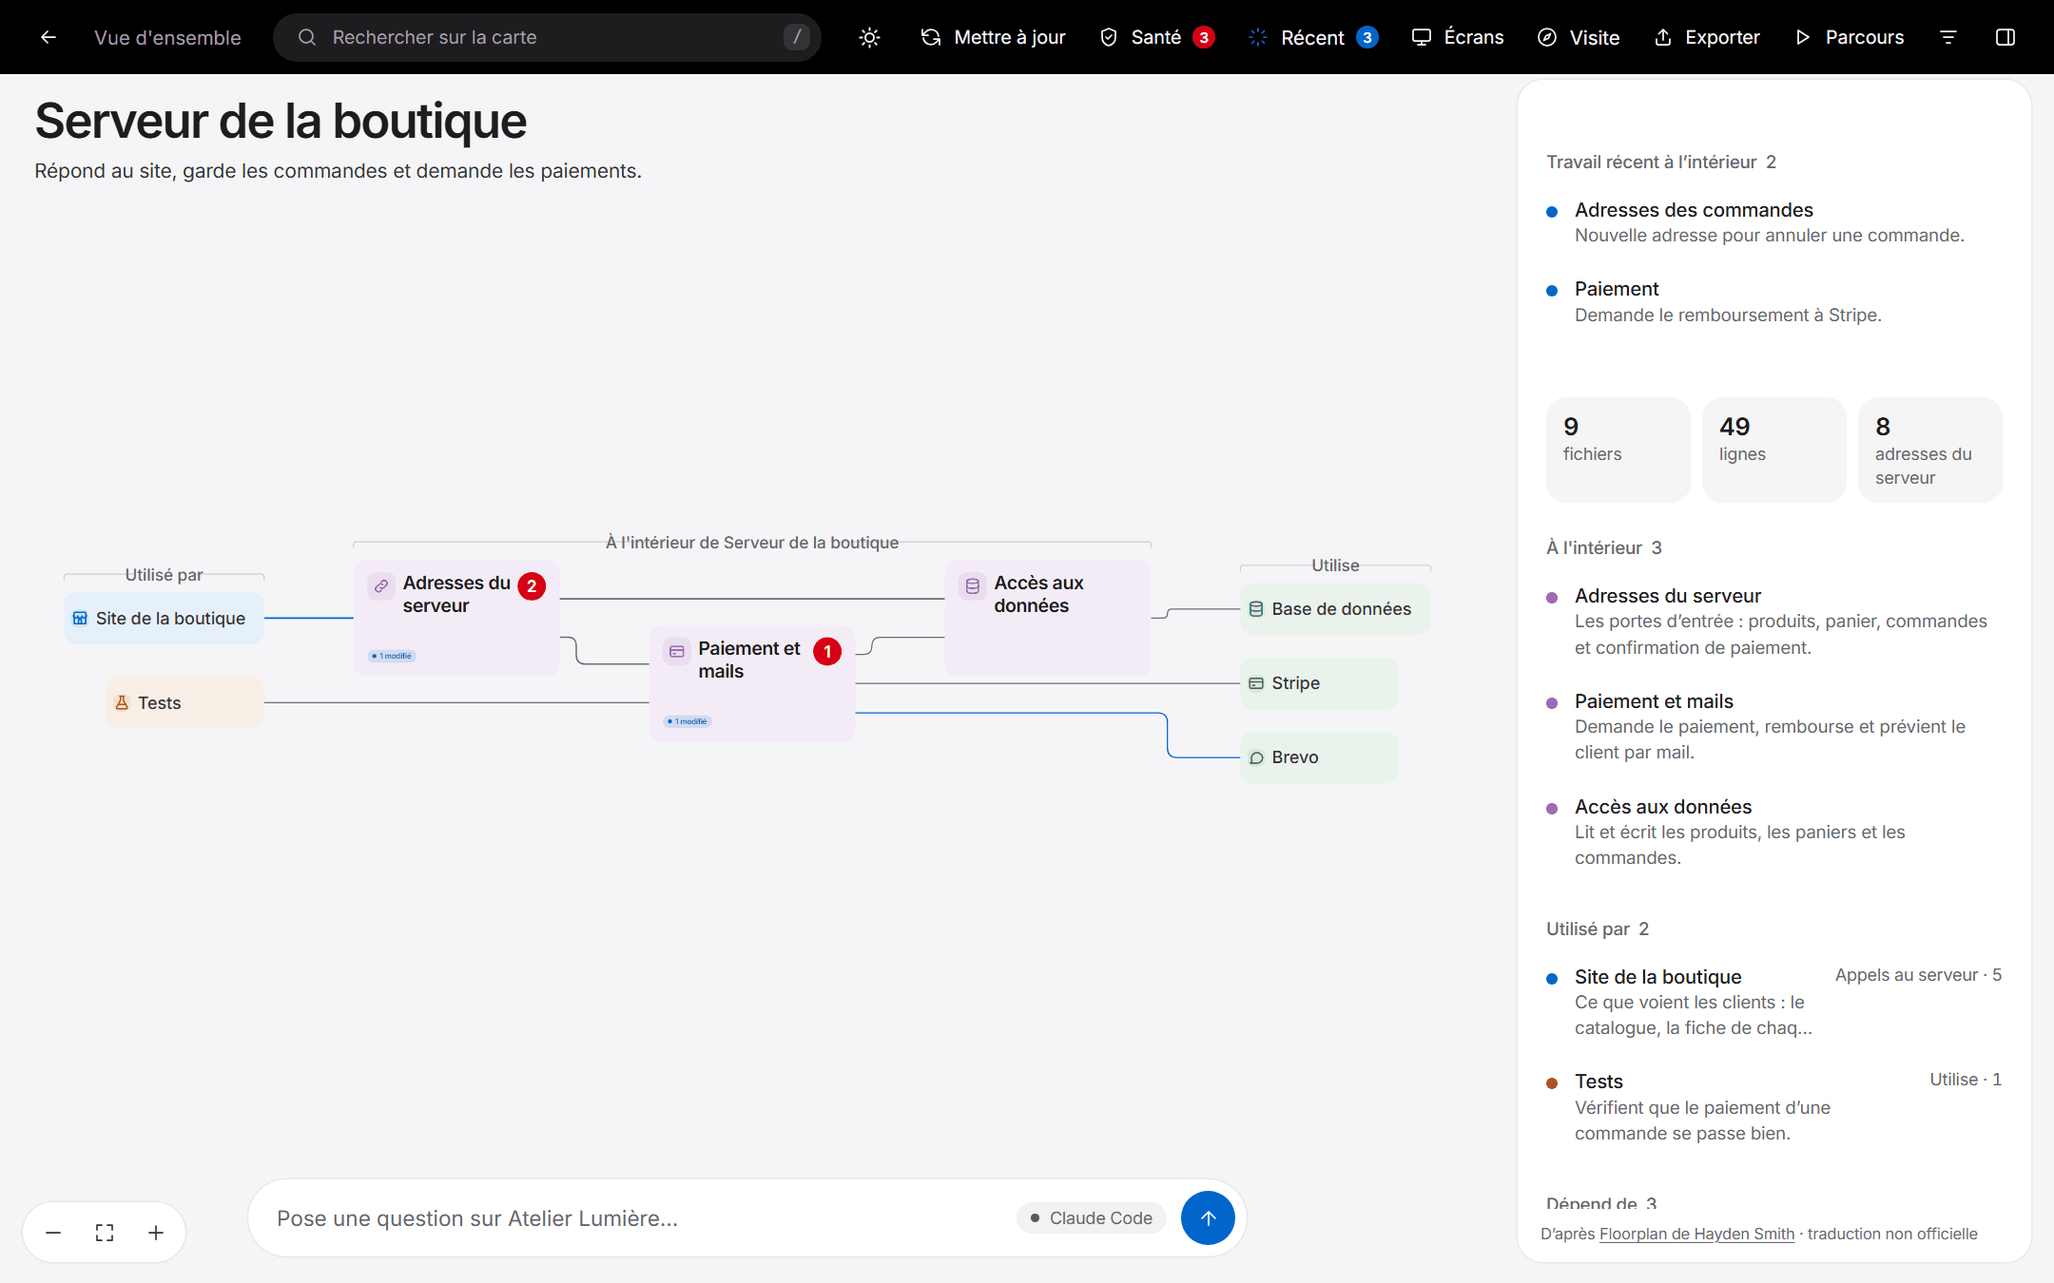
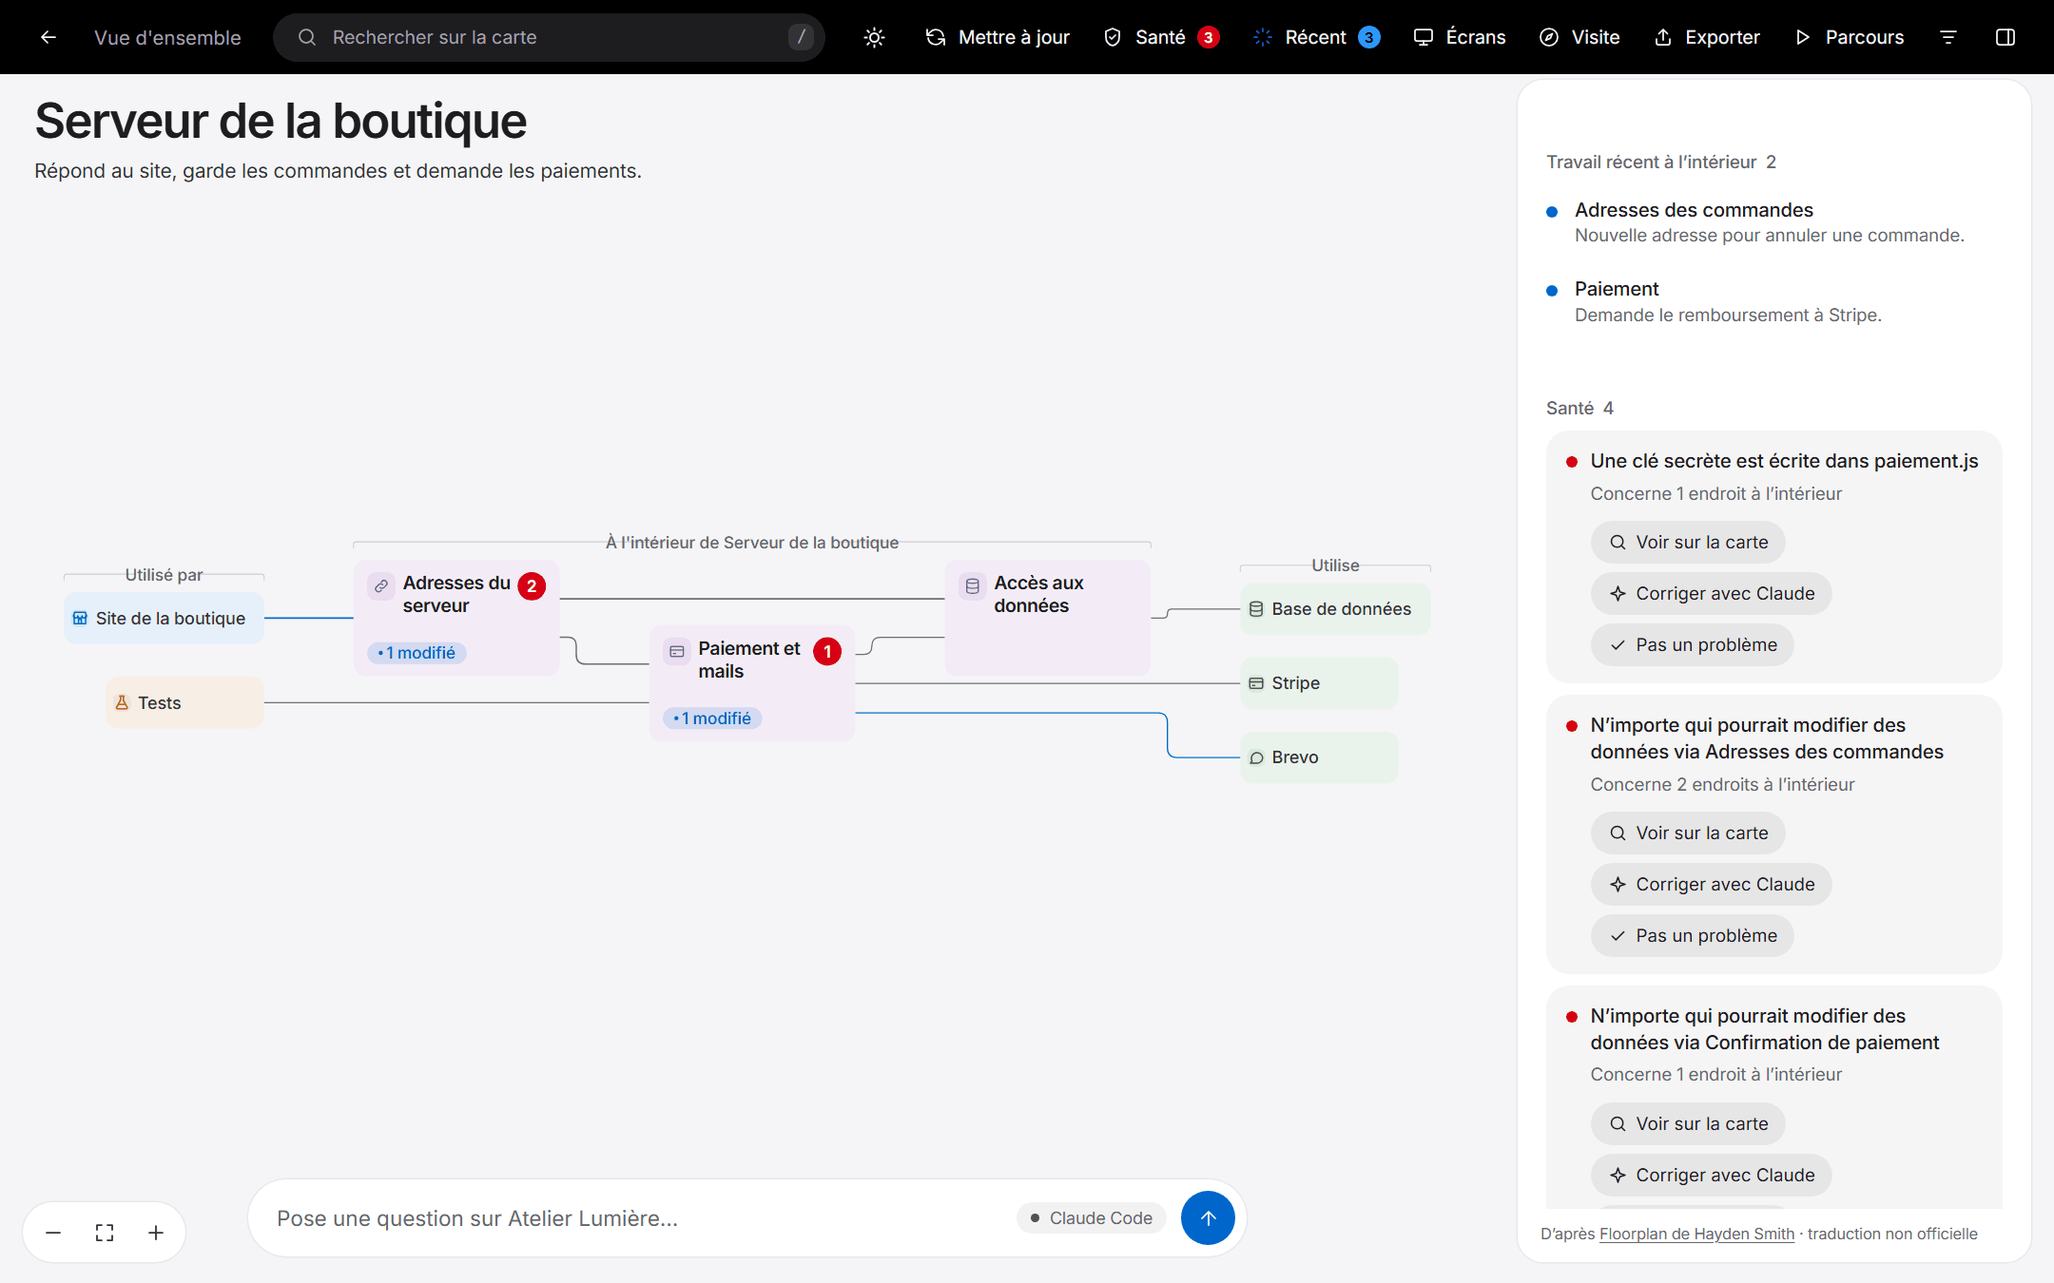
Relecture : Introuvable dit ce qui manque, lien coupé en mots simples
- Le bloc Introuvable liste les fichiers à réparer, avec un accès à la Santé.
- La Santé d'un bloc passe en tête du panneau ; l'infobulle dit « 3 points à voir ».
- Un lien coupé parle en phrases simples et ne s'anime plus.
- Téléphone : barré seulement si plus rien ne relie les deux blocs.
- Mettre à jour : progrès visible à toute largeur, compteur plafonné.

diff --git a/skills/la-carte/assets/carte/js/14-panneau.js b/skills/la-carte/assets/carte/js/14-panneau.js
@@ -78,7 +78,7 @@ function sectionParties(racines) {
   });
   const reste = racines.filter((t) => !places.has(t));
   if (reste.length) parties.push(`<div class="group-h">Autres</div><div class="list">${reste.map((t) => ligneDe(t)).join('')}</div>`);
-  return `<div class="sec"><h3>Parties <span class="c">${racines.length}</span></h3>${parties.join('')}</div>`;
+  return `<div class="sec"><h3>Parties <span class="c">${racines.filter((t) => infosBloc(t).kind !== 'casse').length}</span></h3>${parties.join('')}</div>`;
 }
 
 function panneauApercu() {
@@ -116,6 +116,12 @@ function connexions(element) {
 function panneauElement(element, viaConnecteur) {
   const i = infosBloc(element);
   let html = `<div class="sec">${enteteFiche(i)}`;
+  if (i.type === 'node' && i.kind === 'casse') {
+    // ce bloc n'a de sens que par ce qu'il annonce : qui cherche quoi, et où le réparer
+    const liens = G.links.filter((l) => l.b === element && l.k === 'casse');
+    const rangees = liens.map((l) => `<a class="row" data-go="${h(l.a)}"><span class="dot" style="background:var(--k-casse)"></span><span class="rt"><div class="rn">${h(nomDe(l.a))}</div><div class="rd">${h((l.phrases || []).join(' '))}${modeTechnique() ? ` ${h((l.labels || []).join(', '))}` : ''}</div></span></a>`);
+    return `${html}<div class="actions"><button class="btn soft" data-voir-sante>Voir la Santé</button></div></div>${sectionListe('À réparer', rangees)}`;
+  }
   const actions = [];
   if (ouvrable(element) && etatVue.container !== element) actions.push(`<button class="btn soft" data-open="${h(element)}">${pictoI('drill')}Ouvrir</button>`);
   if (viaConnecteur || (parentsParId.get(element) !== etatVue.container && etatVue.container !== element)) actions.push(`<button class="btn soft" data-go="${h(element)}">Montrer sur la carte</button>`);
@@ -183,13 +189,16 @@ function panneauLien(e) {
   if (!e) return '';
   const eps = adressesDe(e);
   const noms = [...new Set(e.links.flatMap((l) => l.names || []))];
-  const desc = e.k === 'casse' ? [`Ce lien est coupé : ${[...new Set(e.links.flatMap((l) => l.labels || []))].join(', ')} n’existe plus ou ne répond plus.`] : e.links.map((l) => l.desc).filter(Boolean);
+  const coupe = e.k === 'casse';
+  const cibles = [...new Set(e.links.flatMap((l) => l.labels || []))];
+  const desc = coupe ? [...new Set(e.links.flatMap((l) => l.phrases || []))] : e.links.map((l) => l.desc).filter(Boolean);
   const ep = (id) => id.startsWith('x:') ? entiteConnecteur(id) : id;
   const paires = e.links.filter((l) => l.a.startsWith('f:') || l.b.startsWith('f:'));
-  return `<div class="sec"><div class="ph"><span class="ico" style="--c:var(--k-${e.k})">${picto(e.k === 'http' ? 'route' : 'feature')}</span><span class="kind">Connexion · ${LIBELLE_TYPE[e.k]}</span></div>
+  return `<div class="sec"><div class="ph"><span class="ico" style="--c:var(--k-${e.k})">${picto(coupe ? 'casse' : e.k === 'http' ? 'route' : 'feature')}</span><span class="kind">${coupe ? 'Lien coupé' : `Connexion · ${LIBELLE_TYPE[e.k]}`}</span></div>
       <h2 class="pt">${h(nomDe(e.a))} → ${h(nomDe(e.b))}</h2>
       <p class="pd">${desc.length ? h(desc.join(' ')) : `${accorder(e.w, 'connexion')}${eps.length ? ` sur ${accorder(eps.length, 'adresse')} du serveur` : ''}${e.k === 'http' && eps.length ? ', rapprochées des appels vers les adresses du serveur définies dans le code' : ''}.`}</p>
       <div class="actions"><button class="btn soft" data-go="${h(ep(e.a))}">Aller à la source</button><button class="btn soft" data-go="${h(ep(e.b))}">Aller à la cible</button></div></div>
+    ${coupe && modeTechnique() ? `<div class="sec"><h3>Cibles <span class="c">${cibles.length}</span></h3><div class="tags">${cibles.map((x) => `<span class="tag">${h(x)}</span>`).join('')}</div></div>` : ''}
     ${sectionListe('Adresses du serveur', eps.map((x) => ligneRoute(x.i, accorder(x.n, 'appel'))), eps.length, 40)}
     ${noms.length && modeTechnique() ? `<div class="sec"><h3>Noms importés <span class="c">${noms.length}</span></h3><div class="tags">${noms.slice(0, 60).map((x) => `<span class="tag">${h(x)}</span>`).join('')}</div></div>` : ''}
     ${sectionListe('Fichiers concernés', paires.map((l) => { const a = l.a.startsWith('f:') ? fichiersParChemin.get(l.a.slice(2)) : null, b = l.b.startsWith('f:') ? fichiersParChemin.get(l.b.slice(2)) : null;

diff --git a/skills/la-carte/assets/ui/20-sante.js b/skills/la-carte/assets/ui/20-sante.js
@@ -227,7 +227,7 @@
   }
   majBouton();
   // la liste du serveur est celle qui est enregistrée : elle a pu changer depuis la construction de cette carte
-  if (SERVEUR && peutRejeter) fetch('/api/health/dismissed', { headers: { 'x-la-carte-token': SERVEUR.token } }).then((r) => r.json()).then((r) => { if (Array.isArray(r.dismissed)) { rejetes = r.dismissed; actualiser(); } }).catch(() => {});
+  if (SERVEUR && peutRejeter) fetch('/api/health/dismissed', { headers: { 'x-la-carte-token': SERVEUR.token } }).then((r) => r.json()).then((r) => { if (Array.isArray(r.dismissed)) { rejetes = r.dismissed; actualiser(); CARTE.redessiner(); } }).catch(() => {});
 
   // Sélectionner autre chose sur la carte pendant que la liste est ouverte affiche cet élément à la place.
   CARTE.sur('panel', () => { if (estOuverte && ouverteA && position() !== ouverteA) { estOuverte = false; CARTE.fermerPanneau(); } });
@@ -256,6 +256,6 @@
       touches.push(htmlProbleme(issue, indice, precis || (dedans.length > 1 || dedans[0] !== idElement ? `Concerne ${CARTE.pluriel(dedans.length, 'endroit')} à l’intérieur` : '')));
     });
     if (!touches.length) return '';
-    return { html: `<div class="sec"><h3>${PLAN ? 'Revue du plan' : 'Santé'} <span class="c">${touches.length}</span></h3>${touches.slice(0, 6).join('')}${touches.length > 6 ? `<div class="more" data-hc-open style="cursor:pointer">+${touches.length - 6} autres dans ${CONTROLE}</div>` : ''}</div>`, bind: (el) => { brancherProblemes(el); el.querySelector('[data-hc-open]')?.addEventListener('click', ouvrirListe); } };
+    return { top: true, html: `<div class="sec"><h3>${PLAN ? 'Revue du plan' : 'Santé'} <span class="c">${touches.length}</span></h3>${touches.slice(0, 6).join('')}${touches.length > 6 ? `<div class="more" data-hc-open style="cursor:pointer">+${touches.length - 6} autres dans ${CONTROLE}</div>` : ''}</div>`, bind: (el) => { brancherProblemes(el); el.querySelector('[data-hc-open]')?.addEventListener('click', ouvrirListe); } };
   });
 })();

diff --git a/skills/la-carte/assets/carte/js/04-blocs.js b/skills/la-carte/assets/carte/js/04-blocs.js
@@ -31,7 +31,12 @@ function hauteurSupplementaireBloc(element) {
 function pastilleAnomalie(element) {
   const a = ext.anomalies?.(element);
   if (!a?.n) return '';
-  return `<span class="alerte ${a.gravite}" title="${a.n === 1 ? '1 point à voir' : `${a.n} points à voir`}">${a.n}</span>`;
+  return `<span class="alerte ${a.gravite}">${a.n}</span>`;
+}
+/** La même information en mots, pour l'infobulle du bloc. */
+function texteAnomalie(element) {
+  const a = ext.anomalies?.(element);
+  return a?.n ? `<div class="td">${a.n === 1 ? '1 point à voir' : `${a.n} points à voir`}</div>` : '';
 }
 function blocHTML(element) {
   const i = infosBloc(element);
@@ -76,7 +81,7 @@ function infobulleBloc(id) {
     return `<div class="tt">${id.startsWith('x:in') ? 'De' : 'Vers'} ${h(i.name)}</div>${i.desc ? `<div class="td">${h(i.desc)}</div>` : ''}<div class="th"><span>Double-clic pour y aller</span></div>`;
   }
   const i = infosBloc(id);
-  if (!modeTechnique()) return `<div class="tt">${h(i.name)}</div>${i.desc ? `<div class="td">${h(i.desc)}</div>` : ''}${infobulleRecent(id)}${ouvrable(id) && etatVue.container !== id ? '<div class="th"><span>Double-clic pour ouvrir</span></div>' : ''}`;
+  if (!modeTechnique()) return `<div class="tt">${h(i.name)}</div>${i.desc ? `<div class="td">${h(i.desc)}</div>` : ''}${texteAnomalie(id)}${infobulleRecent(id)}${ouvrable(id) && etatVue.container !== id ? '<div class="th"><span>Double-clic pour ouvrir</span></div>' : ''}`;
   const st = statsDe(id);
   const genre = i.type === 'node' ? i.kind : i.type === 'route' ? 'endpoint' : i.type === 'symbol' ? i.symKind : i.type === 'module' ? 'file' : i.type;
   const endroit = i.type === 'node' ? (i.n.paths || []).join('\n') : i.type === 'route' ? `${i.f.p}${i.r.h ? ` · ${i.r.h}()` : ''}` : i.path || '';

diff --git a/skills/la-carte/assets/carte/js/07-infobulles.js b/skills/la-carte/assets/carte/js/07-infobulles.js
@@ -26,8 +26,8 @@ function infobulleLien(e) {
   if (e.k === 'contains') return `<div class="tt">${h(nomDe(e.a))} contient ${h(nomDe(e.b))}</div>`;
   const eps = adressesDe(e);
   const noms = [...new Set(e.links.flatMap((l) => l.names || []))];
-  const libelles = [...new Set(e.links.flatMap((l) => l.labels || []))].filter((x) => !/^[A-Z]+ \//.test(x));
-  const desc = e.links.map((l) => l.desc).find(Boolean);
+  const libelles = e.k === 'casse' && !modeTechnique() ? [] : [...new Set(e.links.flatMap((l) => l.labels || []))].filter((x) => !/^[A-Z]+ \//.test(x));
+  const desc = e.k === 'casse' ? [...new Set(e.links.flatMap((l) => l.phrases || []))].join(' ') : e.links.map((l) => l.desc).find(Boolean);
   const meta = eps.length ? eps.slice(0, 4).map((x) => `${x.r.m} ${x.r.p}`).join('\n') + (eps.length > 4 ? `\n+${eps.length - 4} de plus` : '')
     : noms.length ? 'utilise ' + noms.slice(0, 8).join(', ') + (noms.length > 8 ? '…' : '') : libelles.slice(0, 4).join('\n');
   return `<div class="tt">${h(nomDe(e.a))} → ${h(nomDe(e.b))}</div><div class="td">${h(LIBELLE_TYPE[e.k])} · ${accorder(e.w, 'connexion')}${eps.length ? ` · ${accorder(eps.length, 'adresse')} du serveur` : ''}</div>${desc ? `<div class="td">${h(desc)}</div>` : ''}${meta ? `<div class="tp">${h(meta)}</div>` : ''}<div class="th"><span><span class="kbd">clic</span> détails</span><span><span class="kbd">clic droit</span> plus</span></div>`;

diff --git a/skills/la-carte/assets/carte/css/02-barre.css b/skills/la-carte/assets/carte/css/02-barre.css
@@ -22,6 +22,7 @@ header > * { pointer-events: auto; }
 .btn.primary { background: var(--on); color: var(--on-text); }
 .btn.primary:hover { background: var(--on-hover); }
 .btn:disabled { opacity: .35; cursor: default; }
+#btn-update:disabled { opacity: 1; }
 .btn .badge[hidden] { display: none; }
 .btn .badge { min-width: 16px; height: 16px; border-radius: 999px; background: var(--on); color: var(--on-text); font-size: 10px; font-weight: 600; display: grid; place-items: center; padding: 0 4px; }
 #btn-up[hidden] { display: none; }
@@ -40,13 +41,14 @@ header .btn .badge { background: #2997ff; color: #000; }
 /* tous les boutons affichés : des noms courts tant que la largeur manque */
 @media (min-width: 1000px) and (max-width: 1500px) {
   #btn-recent .bl, #tour-btn .bl { font-size: 0; }
-  #btn-recent .bl::after { content: "Récent"; font-size: 13.5px; }
-  #tour-btn .bl::after { content: "Visite"; font-size: 13.5px; }
+  #btn-recent .bl::after { content: "Récent"; font-size: 13px; }
+  #tour-btn .bl::after { content: "Visite"; font-size: 13px; }
   header .btn { padding: 0 9px; }
 }
 @media (min-width: 1000px) and (max-width: 1280px) {
   #btn-update .bl { display: none; }
   header .btn { padding: 0 7px; gap: 5px; }
+  #crumbs button { max-width: 130px; }
   #search-btn .kbd { display: none; }
 }
 @media (min-width: 1000px) {

diff --git a/skills/la-carte/assets/carte/js/11-telephone.js b/skills/la-carte/assets/carte/js/11-telephone.js
@@ -24,7 +24,9 @@ function rangsColonne(vue, res) {
 function liensColonne(vue, id) {
   const cibles = [...new Set(vue.edges.filter((e) => e.a === id).map((e) => e.b))];
   if (!cibles.length) return '';
-  const coupes = new Set(vue.edges.filter((e) => e.a === id && e.k === 'casse').map((e) => e.b));
+  // barré seulement si rien d'autre ne relie encore les deux blocs
+  const saines = new Set(vue.edges.filter((e) => e.a === id && e.k !== 'casse').map((e) => e.b));
+  const coupes = new Set(vue.edges.filter((e) => e.a === id && e.k === 'casse' && !saines.has(e.b)).map((e) => e.b));
   const bouton = (b, cache) => `<button type="button" class="col-lien${coupes.has(b) ? ' coupe' : ''}" data-vers="${h(b)}"${cache ? ' hidden' : ''}><span>${h(nomDe(b))}</span></button>`;
   return `<div class="col-liens"><span class="col-titre">Utilise</span>${cibles.map((b, n) => bouton(b, n >= 2)).join('')}${cibles.length > 2 ? `<button type="button" class="col-plus" aria-label="Montrer les ${cibles.length - 2} autres liens">+${cibles.length - 2}</button>` : ''}</div>`;
 }

diff --git a/skills/la-carte/assets/ui/15-mise-a-jour.js b/skills/la-carte/assets/ui/15-mise-a-jour.js
@@ -21,7 +21,7 @@
     try { etat = await fetch('/api/fraicheur', { headers: entetes }).then((r) => (r.ok ? r.json() : null)); } catch { return; }
     if (!etat?.suivi) return;
     pastille.hidden = !etat.fichiers;
-    pastille.textContent = etat.fichiers;
+    pastille.textContent = etat.fichiers > 99 ? '99+' : String(etat.fichiers);
     bouton.title = etat.fichiers ? `${CARTE.pluriel(etat.fichiers, 'fichier')} modifié${etat.fichiers > 1 ? 's' : ''} depuis la dernière carte. Mettre à jour ne consomme aucun jeton.` : 'La carte correspond au code actuel.';
   }
 
@@ -30,6 +30,7 @@
     enCours = true;
     bouton.disabled = true;
     if (libelle) libelle.textContent = 'Mise à jour…';
+    CARTE.message('Mise à jour de la carte…');
     let r;
     try { r = await fetch('/api/update', { method: 'POST', headers: entetes }).then((x) => x.json()); } catch { r = { ok: false, error: 'Impossible de joindre le serveur de la carte.' }; }
     if (r.ok) {

diff --git a/skills/la-carte/assets/carte/css/01-jetons.css b/skills/la-carte/assets/carte/css/01-jetons.css
@@ -23,7 +23,7 @@
   --ease: cubic-bezier(.16, 1, .3, 1);
   --shadow-card: none;
   --shadow-float: 0 0 0 1px #333336;
-  --k-casse: #ff453a; --n-casse: #ff453a; --k-import: #8e8e93; --k-http: #2997ff; --k-call: #bf5af2; --k-rpc: #7d7aff; --k-event: #ff375f; --k-queue: #ff9f0a; --k-data: #64d2ff; --k-config: #6b7280; --k-contains: #4a4a4a;
+  --k-casse: #ff6961; --n-casse: #ff6961; --k-import: #8e8e93; --k-http: #2997ff; --k-call: #bf5af2; --k-rpc: #7d7aff; --k-event: #ff375f; --k-queue: #ff9f0a; --k-data: #64d2ff; --k-config: #6b7280; --k-contains: #4a4a4a;
   --n-ui: #2997ff; --n-service: #bf5af2; --n-worker: #bf5af2; --n-library: #bf5af2; --n-feature: #bf5af2; --n-data: #bf5af2; --n-config: #bf5af2;
   --n-test: #ff9f0a; --n-script: #ff9f0a; --n-infra: #ff9f0a; --n-external: #30d158; --n-misc: #98989d; --n-dir: #98989d; --n-file: #98989d;
   --n-module: #98989d; --n-symbol: #bf5af2; --n-route: #2997ff; --n-connector: #98989d;

diff --git a/skills/la-carte/assets/carte/js/18-demarrage.js b/skills/la-carte/assets/carte/js/18-demarrage.js
@@ -70,7 +70,10 @@ const placerContexte = () => { if (estTelephone()) colonne.prepend(elContexte); 
 requeteTelephone.addEventListener('change', () => { placerContexte(); if (etatVue.view) afficherVue(); }); // la colonne et le schéma n'ont pas la même disposition
  placerContexte();
 $('#btn-panel').onclick = () => reglerPanneau(document.body.classList.contains('no-panel'));
-panneau.addEventListener('click', (ev) => { if (ev.target.closest('.feuille-x')) reglerPanneau(false); });
+panneau.addEventListener('click', (ev) => {
+  if (ev.target.closest('.feuille-x')) reglerPanneau(false);
+  if (ev.target.closest('[data-voir-sante]')) $('#btn-health')?.click();
+});
 Object.assign(etatVue.kinds, stockageLocal.get('kinds', {}));
 window.addEventListener('keydown', (ev) => {
   if (elPalette.classList.contains('open') || ev.target.tagName === 'INPUT') return;

diff --git a/skills/la-carte/assets/carte/css/04-blocs.css b/skills/la-carte/assets/carte/css/04-blocs.css
@@ -43,7 +43,7 @@ svg.lod-low .foot .meta { visibility: hidden; }
 .rw.soft { font-weight: 500; }
 body.no-recent .rw { display: none; }
 body.no-recent .card.recent, body.no-recent .card.recent-in { box-shadow: var(--shadow-card); }
-svg.lod-low .rw { font-size: 18px; padding: 6px 12px; }
+svg.lod-mid .rw, svg.lod-low .rw { font-size: calc(11.5px * var(--contre, 1)); padding: calc(2px * var(--contre, 1)) calc(8px * var(--contre, 1)); }
 .card.has-note .title::after { content: ""; display: inline-block; width: 6px; height: 6px; border-radius: 50%; background: var(--sev-medium); margin-left: 8px; vertical-align: middle; }
 .card.connector { flex-direction: row; align-items: center; gap: 10px; padding: 0 14px 0 10px; border-radius: var(--r-card); }
 .card.connector .ico { width: 26px; height: 26px; border-radius: 9px; }

diff --git a/skills/la-carte/assets/carte/js/01-base.js b/skills/la-carte/assets/carte/js/01-base.js
@@ -43,7 +43,7 @@ function el(balise, attrs = {}, parent) {
 
 // ---------- pictogrammes ----------
 const P = {
-  casse: '<path d="M9.5 14.5 7 17a3 3 0 0 1-4-4l2.5-2.5M14.5 9.5 17 7a3 3 0 0 1 4 4l-2.5 2.5M9 5V3M15 21v-2M5 9H3M21 15h-2"/>',
+  casse: '<circle cx="12" cy="12" r="9"/><path d="m9 9 6 6M15 9l-6 6"/>',
   health: '<path d="M12 3 5 6v6c0 5 3 8 7 9 4-1 7-4 7-9V6z"/><path d="m9 12 2 2 4-4"/>',
   ui: '<rect x="3" y="4" width="18" height="12" rx="2"/><path d="M8 20h8M12 16v4"/>',
   service: '<rect x="3" y="4" width="18" height="7" rx="2"/><rect x="3" y="13" width="18" height="7" rx="2"/><path d="M7 7.5h.01M7 16.5h.01"/>',

diff --git a/skills/la-carte/assets/carte/css/11-petits-ecrans.css b/skills/la-carte/assets/carte/css/11-petits-ecrans.css
@@ -113,8 +113,8 @@
   header .hr .btn .badge { position: static; }
   #btn-update .bl { display: none; }
   #btn-recent .bl, #tour-btn .bl { font-size: 0; }
-  #btn-recent .bl::after { content: "Récent"; font-size: 13.5px; }
-  #tour-btn .bl::after { content: "Visite"; font-size: 13.5px; }
+  #btn-recent .bl::after { content: "Récent"; font-size: 13px; }
+  #tour-btn .bl::after { content: "Visite"; font-size: 13px; }
   #btn-panel::after { content: "Détails"; }
   body, body.no-panel { --pw: 0px; }
   #panel { top: auto; left: 16px; right: 16px; bottom: 16px; width: auto; height: 44vh; }
